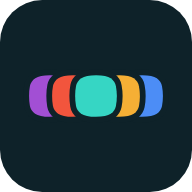
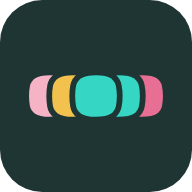
Add files via upload

Changed region(s): [[0.125, 0.375, 0.4062, 0.625], [0.5938, 0.375, 0.875, 0.625]]

diff --git a/tribbi/index.html b/tribbi/index.html
@@ -4,7 +4,7 @@
 <meta charset="utf-8">
 <base href="/tribbi/">
 <meta name="viewport" content="width=device-width, initial-scale=1, viewport-fit=cover">
-<meta name="theme-color" content="#127A6E">
+<meta name="theme-color" content="#FAFAF5">
 <title>Tribbi | Intercambios que arman tribu</title>
 <meta name="description" content="Tribbi organiza intercambios de regalos y libros en Guatemala: te inscribes, te toca alguien y PetMi entrega a domicilio.">
 <link rel="icon" href="favicon.ico" sizes="48x48">
@@ -16,20 +16,23 @@
 <link href="https://fonts.googleapis.com/css2?family=Fredoka:wght@500;600;700&family=Nunito:wght@400;600;700&display=swap" rel="stylesheet">
 <style>
 :root{
-  --bg:#F4F7F1; --ink:#1C2A33; --muted:#5B6B70; --card:#FFFFFF; --line:#DCE4D8;
-  --coral:#E2483D; --coral-dark:#A82A21; --teal:#127A6E; --teal-dark:#0B5249; --sun:#F3B431; --soft:#E8EFE4; --logo:#0F9E90;
+  --bg:#FAFAF5; --ink:#1F3534; --muted:#5E6F6D; --card:#FFFFFF; --line:#E6E8DF;
+  --coral:#C94375; --coral-dark:#9E2F59; --teal:#0B7A70; --teal-dark:#075A53; --sun:#F2C14E; --soft:#F2F3EA; --miss:#FCE4EC; --logo:#0F9E90;
+  --btn:#F2C14E; --btn-ink:#1F3534; --btn-dark:#C99A2E; --rosa:#E86F94; --rosa-dark:#B84A70;
   color-scheme:light; box-sizing:border-box;
   padding-top:env(safe-area-inset-top,0px); padding-bottom:env(safe-area-inset-bottom,0px);
 }
 @media (prefers-color-scheme:dark){
   :root:not([data-theme="light"]){
-    --bg:#111C20; --ink:#EEF3EC; --muted:#A3B4B2; --card:#182A2F; --line:#2A4046;
-    --coral:#F2665B; --coral-dark:#8E2219; --teal:#38B3A3; --teal-dark:#0E5C52; --sun:#FFC94D; --soft:#1F353A; --logo:#36D6C4; color-scheme:dark;
+    --bg:#142321; --ink:#F3F5EE; --muted:#A9B8B5; --card:#1C2E2C; --line:#2C4340;
+    --coral:#F49AB5; --coral-dark:#9E2F59; --teal:#5FD9CB; --teal-dark:#0B5249; --sun:#F2C14E; --soft:#223634; --miss:#4A2633; --logo:#36D6C4;
+    --btn:#F2C14E; --btn-ink:#1F3534; --btn-dark:#9C7A26; --rosa:#E86F94; --rosa-dark:#9E2F59; color-scheme:dark;
   }
 }
 :root[data-theme="dark"]{
-  --bg:#111C20; --ink:#EEF3EC; --muted:#A3B4B2; --card:#182A2F; --line:#2A4046;
-  --coral:#F2665B; --coral-dark:#8E2219; --teal:#38B3A3; --teal-dark:#0E5C52; --sun:#FFC94D; --soft:#1F353A; --logo:#36D6C4; color-scheme:dark;
+  --bg:#142321; --ink:#F3F5EE; --muted:#A9B8B5; --card:#1C2E2C; --line:#2C4340;
+    --coral:#F49AB5; --coral-dark:#9E2F59; --teal:#5FD9CB; --teal-dark:#0B5249; --sun:#F2C14E; --soft:#223634; --miss:#4A2633; --logo:#36D6C4;
+    --btn:#F2C14E; --btn-ink:#1F3534; --btn-dark:#9C7A26; --rosa:#E86F94; --rosa-dark:#9E2F59; color-scheme:dark;
 }
 html{scroll-padding-top:env(safe-area-inset-top,0px)}
 *,*::before,*::after{box-sizing:border-box}
@@ -56,8 +59,8 @@ button,input,select{font:inherit;color:inherit}
 @media (max-width:760px){.opts{grid-template-columns:1fr}}
 .opt{background:var(--card);border:2px solid var(--line);border-radius:26px;padding:24px 24px 26px;position:relative;overflow:hidden;display:flex;flex-direction:column}
 .opt .band{position:absolute;inset:0 0 auto;height:12px}
-.opt.navidad .band{background:repeating-linear-gradient(-45deg,var(--coral) 0 12px,transparent 12px 24px)}
-.opt.bookpal .band{background:repeating-linear-gradient(90deg,var(--teal) 0 18px,var(--sun) 18px 22px)}
+.opt.navidad .band{background:repeating-linear-gradient(-45deg,var(--rosa) 0 12px,transparent 12px 24px)}
+.opt.bookpal .band{background:repeating-linear-gradient(90deg,#36D6C4 0 18px,var(--sun) 18px 22px)}
 .opt .ico{font-size:2.4rem;line-height:1;margin-top:8px}
 .opt h3{font-size:1.6rem;margin:10px 0 2px;line-height:1.1}
 .opt.navidad h3{color:var(--coral)}
@@ -66,12 +69,12 @@ button,input,select{font:inherit;color:inherit}
 .opt p{margin:0 0 12px}
 .chips{display:flex;gap:8px;flex-wrap:wrap;margin:4px 0 18px}
 .chip{font-size:.9rem;padding:3px 12px;border-radius:999px;background:var(--soft);font-weight:600;white-space:nowrap}
-.chip.live{background:var(--teal);color:#fff}
-.chip.soon{background:var(--sun);color:#3A2A00}
+.chip.live{background:var(--teal);color:var(--bg)}
+.chip.soon{background:#FBEFC8;color:#3A2A00}
 .opt .push{margin-top:auto}
-.btn{display:inline-block;border:0;cursor:pointer;color:#fff;font-weight:600;font-size:1.12rem;padding:12px 26px;border-radius:999px;text-decoration:none;transition:transform .08s,box-shadow .08s}
-.btn.coral{background:var(--coral);box-shadow:0 5px 0 var(--coral-dark)}
-.btn.teal{background:var(--teal);box-shadow:0 5px 0 var(--teal-dark)}
+.btn{display:inline-block;border:0;cursor:pointer;color:var(--btn-ink);font-weight:600;font-size:1.12rem;padding:12px 26px;border-radius:999px;text-decoration:none;transition:transform .08s,box-shadow .08s}
+.btn.coral{background:var(--btn);box-shadow:0 5px 0 var(--btn-dark)}
+.btn.teal{background:var(--rosa);box-shadow:0 5px 0 var(--rosa-dark)}
 .btn:active{transform:translateY(4px);box-shadow:0 1px 0 transparent}
 .btn:disabled{opacity:.55;cursor:not-allowed}
 .wait{display:grid;grid-template-columns:1fr auto;gap:10px}
@@ -90,7 +93,7 @@ button,input,select{font:inherit;color:inherit}
 .steps{list-style:none;margin:0;padding:0;display:grid;grid-template-columns:repeat(3,1fr);gap:18px;counter-reset:s}
 @media (max-width:760px){.steps{grid-template-columns:1fr}}
 .steps li{counter-increment:s;position:relative;padding:0 0 0 58px}
-.steps li::before{content:counter(s);position:absolute;left:0;top:0;width:42px;height:42px;border-radius:50%;display:grid;place-items:center;background:var(--sun);color:#3A2A00;font-family:"Fredoka",sans-serif;font-weight:700;font-size:1.3rem}
+.steps li::before{content:counter(s);position:absolute;left:0;top:0;width:42px;height:42px;border-radius:50%;display:grid;place-items:center;background:#FCE4EC;color:#9E2F59;font-family:"Fredoka",sans-serif;font-weight:700;font-size:1.3rem}
 .steps b{display:block;font-family:"Fredoka",sans-serif;font-size:1.15rem;font-weight:600}
 .steps span{color:var(--muted)}
 
@@ -121,6 +124,7 @@ footer a{color:var(--teal);font-weight:700}
 .topnav .entrar{font-family:"Fredoka",sans-serif;font-weight:600;color:var(--teal);text-decoration:none;border:2px solid var(--line);background:var(--card);border-radius:999px;padding:6px 18px}
 .topnav .entrar:hover{border-color:var(--teal)}
 .hero{padding-top:12px!important}
+.opt p a{color:var(--teal);font-weight:700}
 </style>
 </head>
 <body>
@@ -128,7 +132,7 @@ footer a{color:var(--teal);font-weight:700}
   <nav class="topnav" aria-label="Cuenta"><a class="entrar" href="entrar.html">Entrar</a></nav>
   <header class="hero">
     <div>
-      <h1><span class="tb-logo anim" id="logo" role="img" aria-label="Tribbi" title="Tócame">Tribb<span class="i" aria-hidden="true">i<svg class="c" style="left:-0.165em;top:.141em;--dx:0.2em" viewBox="35 547 181 181"><path transform="translate(0 1275) scale(1 -1)" d="M125 547Q80 547 61.0 560.5Q42 574 38.5 595.0Q35 616 35 638Q35 661 39.0 681.5Q43 702 62.0 715.0Q81 728 126 728Q171 728 189.5 714.5Q208 701 212.0 680.0Q216 659 216 637Q216 615 212.0 594.0Q208 573 189.5 560.0Q171 547 125 547Z" fill="#A24FD4"/></svg><svg class="c" style="left:0.235em;top:.141em;--dx:-0.2em" viewBox="35 547 181 181"><path transform="translate(0 1275) scale(1 -1)" d="M125 547Q80 547 61.0 560.5Q42 574 38.5 595.0Q35 616 35 638Q35 661 39.0 681.5Q43 702 62.0 715.0Q81 728 126 728Q171 728 189.5 714.5Q208 701 212.0 680.0Q216 659 216 637Q216 615 212.0 594.0Q208 573 189.5 560.0Q171 547 125 547Z" fill="#4C8DF6"/></svg><svg class="c" style="left:-0.065em;top:.141em;--dx:0.1em" viewBox="35 547 181 181"><path transform="translate(0 1275) scale(1 -1)" d="M125 547Q80 547 61.0 560.5Q42 574 38.5 595.0Q35 616 35 638Q35 661 39.0 681.5Q43 702 62.0 715.0Q81 728 126 728Q171 728 189.5 714.5Q208 701 212.0 680.0Q216 659 216 637Q216 615 212.0 594.0Q208 573 189.5 560.0Q171 547 125 547Z" fill="#F2553D"/></svg><svg class="c" style="left:0.135em;top:.141em;--dx:-0.1em" viewBox="35 547 181 181"><path transform="translate(0 1275) scale(1 -1)" d="M125 547Q80 547 61.0 560.5Q42 574 38.5 595.0Q35 616 35 638Q35 661 39.0 681.5Q43 702 62.0 715.0Q81 728 126 728Q171 728 189.5 714.5Q208 701 212.0 680.0Q216 659 216 637Q216 615 212.0 594.0Q208 573 189.5 560.0Q171 547 125 547Z" fill="#F5AF35"/></svg><svg class="c p" style="left:0.035em;top:.141em" viewBox="35 547 181 181"><path transform="translate(0 1275) scale(1 -1)" d="M125 547Q80 547 61.0 560.5Q42 574 38.5 595.0Q35 616 35 638Q35 661 39.0 681.5Q43 702 62.0 715.0Q81 728 126 728Q171 728 189.5 714.5Q208 701 212.0 680.0Q216 659 216 637Q216 615 212.0 594.0Q208 573 189.5 560.0Q171 547 125 547Z"/></svg></span></span></h1>
+      <h1><span class="tb-logo anim" id="logo" role="img" aria-label="Tribbi" title="Tócame">Tribb<span class="i" aria-hidden="true">i<svg class="c" style="left:-0.165em;top:.141em;--dx:0.2em" viewBox="35 547 181 181"><path transform="translate(0 1275) scale(1 -1)" d="M125 547Q80 547 61.0 560.5Q42 574 38.5 595.0Q35 616 35 638Q35 661 39.0 681.5Q43 702 62.0 715.0Q81 728 126 728Q171 728 189.5 714.5Q208 701 212.0 680.0Q216 659 216 637Q216 615 212.0 594.0Q208 573 189.5 560.0Q171 547 125 547Z" fill="#F7B3C6"/></svg><svg class="c" style="left:0.235em;top:.141em;--dx:-0.2em" viewBox="35 547 181 181"><path transform="translate(0 1275) scale(1 -1)" d="M125 547Q80 547 61.0 560.5Q42 574 38.5 595.0Q35 616 35 638Q35 661 39.0 681.5Q43 702 62.0 715.0Q81 728 126 728Q171 728 189.5 714.5Q208 701 212.0 680.0Q216 659 216 637Q216 615 212.0 594.0Q208 573 189.5 560.0Q171 547 125 547Z" fill="#E86F94"/></svg><svg class="c" style="left:-0.065em;top:.141em;--dx:0.1em" viewBox="35 547 181 181"><path transform="translate(0 1275) scale(1 -1)" d="M125 547Q80 547 61.0 560.5Q42 574 38.5 595.0Q35 616 35 638Q35 661 39.0 681.5Q43 702 62.0 715.0Q81 728 126 728Q171 728 189.5 714.5Q208 701 212.0 680.0Q216 659 216 637Q216 615 212.0 594.0Q208 573 189.5 560.0Q171 547 125 547Z" fill="#F2C14E"/></svg><svg class="c" style="left:0.135em;top:.141em;--dx:-0.1em" viewBox="35 547 181 181"><path transform="translate(0 1275) scale(1 -1)" d="M125 547Q80 547 61.0 560.5Q42 574 38.5 595.0Q35 616 35 638Q35 661 39.0 681.5Q43 702 62.0 715.0Q81 728 126 728Q171 728 189.5 714.5Q208 701 212.0 680.0Q216 659 216 637Q216 615 212.0 594.0Q208 573 189.5 560.0Q171 547 125 547Z" fill="#36D6C4"/></svg><svg class="c p" style="left:0.035em;top:.141em" viewBox="35 547 181 181"><path transform="translate(0 1275) scale(1 -1)" d="M125 547Q80 547 61.0 560.5Q42 574 38.5 595.0Q35 616 35 638Q35 661 39.0 681.5Q43 702 62.0 715.0Q81 728 126 728Q171 728 189.5 714.5Q208 701 212.0 680.0Q216 659 216 637Q216 615 212.0 594.0Q208 573 189.5 560.0Q171 547 125 547Z"/></svg></span></span></h1>
       <p class="tag">Intercambios que arman tribu</p>
       <p class="lead">Te inscribes, te toca alguien al azar y le das algo pensado para esa persona. Nosotros organizamos el sorteo y las entregas; tú solo eliges el regalo.</p>
     </div>

diff --git a/tribbi/tribbi-comun.css b/tribbi/tribbi-comun.css
@@ -1,19 +1,22 @@
 /* TRIBBI · estilos compartidos de admin.html y bookpal.html */
 :root{
-  --bg:#F4F7F1; --ink:#1C2A33; --muted:#5B6B70; --card:#FFFFFF; --line:#DCE4D8;
-  --coral:#E2483D; --coral-dark:#A82A21; --teal:#127A6E; --teal-dark:#0B5249; --sun:#F3B431; --soft:#E8EFE4; --miss:#FBE3E0; --logo:#0F9E90;
+  --bg:#FAFAF5; --ink:#1F3534; --muted:#5E6F6D; --card:#FFFFFF; --line:#E6E8DF;
+  --coral:#C94375; --coral-dark:#9E2F59; --teal:#0B7A70; --teal-dark:#075A53; --sun:#F2C14E; --soft:#F2F3EA; --miss:#FCE4EC; --logo:#0F9E90;
+  --btn:#F2C14E; --btn-ink:#1F3534; --btn-dark:#C99A2E; --rosa:#E86F94; --rosa-dark:#B84A70;
   color-scheme:light; box-sizing:border-box;
   padding-top:env(safe-area-inset-top,0px); padding-bottom:env(safe-area-inset-bottom,0px);
 }
 @media (prefers-color-scheme:dark){
   :root:not([data-theme="light"]){
-    --bg:#111C20; --ink:#EEF3EC; --muted:#A3B4B2; --card:#182A2F; --line:#2A4046;
-    --coral:#F2665B; --coral-dark:#8E2219; --teal:#38B3A3; --teal-dark:#0E5C52; --sun:#FFC94D; --soft:#1F353A; --miss:#4A2622; --logo:#36D6C4; color-scheme:dark;
+    --bg:#142321; --ink:#F3F5EE; --muted:#A9B8B5; --card:#1C2E2C; --line:#2C4340;
+    --coral:#F49AB5; --coral-dark:#9E2F59; --teal:#5FD9CB; --teal-dark:#0B5249; --sun:#F2C14E; --soft:#223634; --miss:#4A2633; --logo:#36D6C4;
+    --btn:#F2C14E; --btn-ink:#1F3534; --btn-dark:#9C7A26; --rosa:#E86F94; --rosa-dark:#9E2F59; color-scheme:dark;
   }
 }
 :root[data-theme="dark"]{
-  --bg:#111C20; --ink:#EEF3EC; --muted:#A3B4B2; --card:#182A2F; --line:#2A4046;
-  --coral:#F2665B; --coral-dark:#8E2219; --teal:#38B3A3; --teal-dark:#0E5C52; --sun:#FFC94D; --soft:#1F353A; --miss:#4A2622; --logo:#36D6C4; color-scheme:dark;
+  --bg:#142321; --ink:#F3F5EE; --muted:#A9B8B5; --card:#1C2E2C; --line:#2C4340;
+    --coral:#F49AB5; --coral-dark:#9E2F59; --teal:#5FD9CB; --teal-dark:#0B5249; --sun:#F2C14E; --soft:#223634; --miss:#4A2633; --logo:#36D6C4;
+    --btn:#F2C14E; --btn-ink:#1F3534; --btn-dark:#9C7A26; --rosa:#E86F94; --rosa-dark:#9E2F59; color-scheme:dark;
 }
 html{scroll-padding-top:env(safe-area-inset-top,0px)}
 *,*::before,*::after{box-sizing:border-box}
@@ -33,9 +36,9 @@ a{color:var(--teal);font-weight:700}
 textarea.tb-field{resize:vertical;min-height:90px}
 .tb-code{text-align:center;font-size:1.6rem;letter-spacing:.4em}
 .tb-err{color:var(--coral);min-height:1.5em;margin:10px 0;font-weight:700}
-.tb-btn{display:inline-block;border:0;cursor:pointer;background:var(--teal);color:#fff;font-weight:600;font-size:1.08rem;padding:11px 24px;border-radius:999px;box-shadow:0 5px 0 var(--teal-dark);text-decoration:none;transition:transform .08s,box-shadow .08s}
-.tb-btn.coral{background:var(--coral);box-shadow:0 5px 0 var(--coral-dark)}
-.tb-btn.sm{font-size:.95rem;padding:8px 16px;box-shadow:0 3px 0 var(--teal-dark)}
+.tb-btn{display:inline-block;border:0;cursor:pointer;background:var(--btn);color:var(--btn-ink);font-weight:600;font-size:1.08rem;padding:11px 24px;border-radius:999px;box-shadow:0 5px 0 var(--btn-dark);text-decoration:none;transition:transform .08s,box-shadow .08s}
+.tb-btn.coral{background:var(--rosa);color:var(--btn-ink);box-shadow:0 5px 0 var(--rosa-dark)}
+.tb-btn.sm{font-size:.95rem;padding:8px 16px;box-shadow:0 3px 0 var(--btn-dark)}
 .tb-btn:active{transform:translateY(4px);box-shadow:0 1px 0 transparent}
 .tb-btn:disabled{opacity:.5;cursor:not-allowed}
 .tb-link{border:0;background:none;color:var(--teal);font-weight:700;cursor:pointer;padding:4px 6px;border-radius:8px}
@@ -46,8 +49,8 @@ textarea.tb-field{resize:vertical;min-height:90px}
 .tb-msg.bad{color:var(--coral);font-weight:700}
 .tb-msg.ok{color:var(--teal);font-weight:700}
 .tb-chip{display:inline-block;font-size:.88rem;padding:2px 11px;border-radius:999px;background:var(--soft);font-weight:700;white-space:nowrap}
-.tb-chip.ok{background:var(--teal);color:#fff}
-.tb-chip.warn{background:var(--sun);color:#3A2A00}
+.tb-chip.ok{background:var(--teal);color:var(--bg)}
+.tb-chip.warn{background:#FBEFC8;color:#3A2A00}
 .tb-chip.off{background:var(--miss)}
 
 .tb-scratch{position:relative;border-radius:16px;overflow:hidden;min-height:120px;display:grid;place-items:center;background:var(--soft)}
@@ -83,12 +86,14 @@ textarea.tb-field{resize:vertical;min-height:90px}
 .d-nieve{background-image:linear-gradient(135deg,#2F7FC1,#9BD3F5)}
 .d-estrella{background-image:linear-gradient(135deg,#F3B431,#FFE58A)}
 .d-noche{background-image:linear-gradient(135deg,#1C2A33,#4A6B7C)}
-.d-luces{background:#0F2A20}
+.d-luces{background:#F3F1E4}
+@media (prefers-color-scheme:dark){:root:not([data-theme="light"]) .d-luces{background:#0F2A20}}
+:root[data-theme="dark"] .d-luces{background:#0F2A20}
 .tb-luces{position:absolute;inset:0;display:flex;justify-content:space-around;align-items:flex-start;padding:0 5%}
-.tb-luces::before{content:"";position:absolute;left:-5%;right:-5%;top:-34%;height:60%;border-bottom:2px solid #A9C3B5;border-radius:0 0 50% 50%/0 0 100% 100%;opacity:.6}
+.tb-luces::before{content:"";position:absolute;left:-5%;right:-5%;top:-34%;height:60%;border-bottom:2px solid var(--muted);border-radius:0 0 50% 50%/0 0 100% 100%;opacity:.6}
 .tb-luces i{position:relative;width:12px;height:18px;margin-top:17%;border-radius:50% 50% 50% 50%/60% 60% 40% 40%;background:var(--c);box-shadow:0 0 12px var(--c);animation:tbtitila 2.4s infinite;animation-delay:var(--d)}
 .tb-luces i:nth-child(odd){margin-top:12%}
-.tb-luces i::before{content:"";position:absolute;top:-5px;left:3px;width:6px;height:6px;border-radius:2px;background:#A9C3B5}
+.tb-luces i::before{content:"";position:absolute;top:-5px;left:3px;width:6px;height:6px;border-radius:2px;background:var(--muted)}
 .tb-portada.thumb .tb-luces i,.tb-portada.mini .tb-luces i{width:6px;height:9px;box-shadow:0 0 6px var(--c)}
 .tb-portada.thumb .tb-luces i::before,.tb-portada.mini .tb-luces i::before{top:-3px;left:1px;width:4px;height:3px}
 @keyframes tbtitila{50%{opacity:.45;box-shadow:none}}
@@ -97,3 +102,24 @@ textarea.tb-field{resize:vertical;min-height:90px}
 @media (max-width:520px){.tb-disenos{grid-template-columns:repeat(3,1fr)}}
 .tb-disenos button{height:56px;border-radius:12px;border:3px solid transparent;cursor:pointer;padding:0;position:relative;overflow:hidden;font-size:1.4rem;display:grid;place-items:center}
 .tb-disenos button[aria-pressed="true"]{border-color:var(--teal);box-shadow:0 0 0 2px var(--bg) inset}
+
+/* Fechas con cuenta regresiva */
+.tb-fechas{display:grid;gap:8px;margin-top:12px}
+.tb-f{display:flex;gap:10px;align-items:center;border-radius:16px;padding:10px 14px;font-weight:700}
+.tb-f .e{font-size:1.5rem;flex:none;line-height:1}
+.tb-f small{display:block;font-weight:400;opacity:.85}
+.tb-f.unir{background:#FFF1C7;color:#3A2A00}
+.tb-f.urge{background:#FBE3E0;color:#7A1A12}
+.tb-f.info{background:var(--soft);color:var(--ink)}
+.tb-f.listo{background:var(--teal);color:var(--bg)}
+.tb-recordatorio{display:flex;gap:12px;align-items:center;justify-content:space-between;flex-wrap:wrap;background:#FFF1C7;color:#3A2A00;border-radius:18px;padding:12px 16px;margin-top:14px;font-weight:700}
+.tb-recordatorio small{display:block;font-weight:400}
+
+/* Ventanita para guardar en la pantalla de inicio */
+.tb-sheet{position:fixed;inset:0;z-index:60;background:rgba(0,0,0,.55);display:grid;place-items:center;padding:16px}
+.tb-sheet[hidden]{display:none}
+.tb-sheet-box{position:relative;background:var(--card);color:var(--ink);width:100%;max-width:400px;border-radius:24px;padding:28px 22px 20px;text-align:center;box-shadow:0 14px 44px rgba(0,0,0,.4)}
+.tb-sheet-box h2{margin:6px 0 8px;font-size:1.25rem;color:var(--teal)}
+.tb-sheet-box p{margin:0 0 10px;line-height:1.5}
+.tb-sheet-x{position:absolute;top:8px;right:10px;border:0;background:none;color:var(--muted);font-size:1.6rem;line-height:1;cursor:pointer;padding:6px 10px;border-radius:10px}
+@media (prefers-reduced-motion:no-preference){.tb-sheet-box{animation:tbpop .28s cubic-bezier(.2,.9,.3,1.2)}@keyframes tbpop{from{transform:scale(.9);opacity:0}to{transform:none;opacity:1}}}

diff --git a/tribbi/amigo-secreto.html b/tribbi/amigo-secreto.html
@@ -5,7 +5,7 @@
 <base href="/tribbi/">
 <meta name="viewport" content="width=device-width, initial-scale=1, viewport-fit=cover">
 <meta name="robots" content="noindex, nofollow">
-<meta name="theme-color" content="#E2483D">
+<meta name="theme-color" content="#FAFAF5">
 <title>Amigo secreto | Tribbi</title>
 <link rel="icon" href="favicon.ico" sizes="48x48">
 <link rel="icon" href="favicon.svg" type="image/svg+xml">
@@ -31,7 +31,7 @@ h1.big{font-size:clamp(2.2rem,9vw,3.4rem);line-height:1;margin:4px 0 10px;color:
 .confirma .quien{font-family:"Fredoka",sans-serif;font-size:2rem;font-weight:700;color:var(--teal);margin:2px 0 10px;overflow-wrap:anywhere}
 .tabs{display:flex;gap:8px;flex-wrap:wrap;margin-top:16px}
 .tabs button{border:2px solid var(--line);background:var(--card);border-radius:999px;padding:6px 14px;font:inherit;font-weight:700;cursor:pointer;color:var(--ink)}
-.tabs button[aria-pressed="true"]{border-color:var(--teal);background:var(--teal);color:#fff}
+.tabs button[aria-pressed="true"]{border-color:var(--teal);background:var(--teal);color:var(--bg)}
 .wishes{list-style:none;padding:0;margin:10px 0 0}
 .wishes li{display:flex;align-items:center;gap:10px;background:var(--bg);border:2px solid var(--line);border-radius:14px;padding:8px 8px 8px 14px;margin-bottom:8px;min-height:48px}
 .wishes li::before{content:"🎁";flex:none}
@@ -52,7 +52,7 @@ footer{max-width:640px;margin:20px auto 0;padding:18px 20px 36px;color:var(--mut
 </head>
 <body>
 <div class="wrap">
-  <div class="top"><a class="tb-logo" href="./" aria-label="Tribbi" style="font-size:28px">Tribb<span class="i" aria-hidden="true">i<svg class="c" style="left:-0.165em;top:.141em;--dx:0.2em" viewBox="35 547 181 181"><path transform="translate(0 1275) scale(1 -1)" d="M125 547Q80 547 61.0 560.5Q42 574 38.5 595.0Q35 616 35 638Q35 661 39.0 681.5Q43 702 62.0 715.0Q81 728 126 728Q171 728 189.5 714.5Q208 701 212.0 680.0Q216 659 216 637Q216 615 212.0 594.0Q208 573 189.5 560.0Q171 547 125 547Z" fill="#A24FD4"/></svg><svg class="c" style="left:0.235em;top:.141em;--dx:-0.2em" viewBox="35 547 181 181"><path transform="translate(0 1275) scale(1 -1)" d="M125 547Q80 547 61.0 560.5Q42 574 38.5 595.0Q35 616 35 638Q35 661 39.0 681.5Q43 702 62.0 715.0Q81 728 126 728Q171 728 189.5 714.5Q208 701 212.0 680.0Q216 659 216 637Q216 615 212.0 594.0Q208 573 189.5 560.0Q171 547 125 547Z" fill="#4C8DF6"/></svg><svg class="c" style="left:-0.065em;top:.141em;--dx:0.1em" viewBox="35 547 181 181"><path transform="translate(0 1275) scale(1 -1)" d="M125 547Q80 547 61.0 560.5Q42 574 38.5 595.0Q35 616 35 638Q35 661 39.0 681.5Q43 702 62.0 715.0Q81 728 126 728Q171 728 189.5 714.5Q208 701 212.0 680.0Q216 659 216 637Q216 615 212.0 594.0Q208 573 189.5 560.0Q171 547 125 547Z" fill="#F2553D"/></svg><svg class="c" style="left:0.135em;top:.141em;--dx:-0.1em" viewBox="35 547 181 181"><path transform="translate(0 1275) scale(1 -1)" d="M125 547Q80 547 61.0 560.5Q42 574 38.5 595.0Q35 616 35 638Q35 661 39.0 681.5Q43 702 62.0 715.0Q81 728 126 728Q171 728 189.5 714.5Q208 701 212.0 680.0Q216 659 216 637Q216 615 212.0 594.0Q208 573 189.5 560.0Q171 547 125 547Z" fill="#F5AF35"/></svg><svg class="c p" style="left:0.035em;top:.141em" viewBox="35 547 181 181"><path transform="translate(0 1275) scale(1 -1)" d="M125 547Q80 547 61.0 560.5Q42 574 38.5 595.0Q35 616 35 638Q35 661 39.0 681.5Q43 702 62.0 715.0Q81 728 126 728Q171 728 189.5 714.5Q208 701 212.0 680.0Q216 659 216 637Q216 615 212.0 594.0Q208 573 189.5 560.0Q171 547 125 547Z"/></svg></span></a><span><a class="tb-link" href="entrar.html" id="misLink">Mis intercambios</a><button class="tb-link" id="salirBtn" hidden>Salir</button></span></div>
+  <div class="top"><a class="tb-logo" href="./" aria-label="Tribbi" style="font-size:28px">Tribb<span class="i" aria-hidden="true">i<svg class="c" style="left:-0.165em;top:.141em;--dx:0.2em" viewBox="35 547 181 181"><path transform="translate(0 1275) scale(1 -1)" d="M125 547Q80 547 61.0 560.5Q42 574 38.5 595.0Q35 616 35 638Q35 661 39.0 681.5Q43 702 62.0 715.0Q81 728 126 728Q171 728 189.5 714.5Q208 701 212.0 680.0Q216 659 216 637Q216 615 212.0 594.0Q208 573 189.5 560.0Q171 547 125 547Z" fill="#F7B3C6"/></svg><svg class="c" style="left:0.235em;top:.141em;--dx:-0.2em" viewBox="35 547 181 181"><path transform="translate(0 1275) scale(1 -1)" d="M125 547Q80 547 61.0 560.5Q42 574 38.5 595.0Q35 616 35 638Q35 661 39.0 681.5Q43 702 62.0 715.0Q81 728 126 728Q171 728 189.5 714.5Q208 701 212.0 680.0Q216 659 216 637Q216 615 212.0 594.0Q208 573 189.5 560.0Q171 547 125 547Z" fill="#E86F94"/></svg><svg class="c" style="left:-0.065em;top:.141em;--dx:0.1em" viewBox="35 547 181 181"><path transform="translate(0 1275) scale(1 -1)" d="M125 547Q80 547 61.0 560.5Q42 574 38.5 595.0Q35 616 35 638Q35 661 39.0 681.5Q43 702 62.0 715.0Q81 728 126 728Q171 728 189.5 714.5Q208 701 212.0 680.0Q216 659 216 637Q216 615 212.0 594.0Q208 573 189.5 560.0Q171 547 125 547Z" fill="#F2C14E"/></svg><svg class="c" style="left:0.135em;top:.141em;--dx:-0.1em" viewBox="35 547 181 181"><path transform="translate(0 1275) scale(1 -1)" d="M125 547Q80 547 61.0 560.5Q42 574 38.5 595.0Q35 616 35 638Q35 661 39.0 681.5Q43 702 62.0 715.0Q81 728 126 728Q171 728 189.5 714.5Q208 701 212.0 680.0Q216 659 216 637Q216 615 212.0 594.0Q208 573 189.5 560.0Q171 547 125 547Z" fill="#36D6C4"/></svg><svg class="c p" style="left:0.035em;top:.141em" viewBox="35 547 181 181"><path transform="translate(0 1275) scale(1 -1)" d="M125 547Q80 547 61.0 560.5Q42 574 38.5 595.0Q35 616 35 638Q35 661 39.0 681.5Q43 702 62.0 715.0Q81 728 126 728Q171 728 189.5 714.5Q208 701 212.0 680.0Q216 659 216 637Q216 615 212.0 594.0Q208 573 189.5 560.0Q171 547 125 547Z"/></svg></span></a><span><a class="tb-link" href="entrar.html" id="misLink">Mis intercambios</a><button class="tb-link" id="salirBtn" hidden>Salir</button></span></div>
   <div id="portada" style="margin-top:4px"></div>
   <p class="org" id="org" style="margin-top:12px"></p>
   <h1 class="big" id="tit">Amigo secreto</h1>

diff --git a/tribbi/bookpal.html b/tribbi/bookpal.html
@@ -4,7 +4,7 @@
 <meta charset="utf-8">
 <base href="/tribbi/">
 <meta name="viewport" content="width=device-width, initial-scale=1, viewport-fit=cover">
-<meta name="theme-color" content="#127A6E">
+<meta name="theme-color" content="#FAFAF5">
 <title>BookPal | Intercambio de libros de Tribbi</title>
 <meta name="description" content="BookPal: envía un libro que ya leíste a alguien que le va a gustar y recibe uno de otra persona. Con Tribbi y PetMi.">
 <link rel="icon" href="favicon.ico" sizes="48x48">
@@ -53,7 +53,7 @@
 .card p{margin:0 0 10px}
 .step{display:flex;gap:12px;align-items:baseline}
 .step .n{flex:none;width:30px;height:30px;border-radius:50%;display:grid;place-items:center;background:var(--sun);color:#3A2A00;font-family:"Fredoka",sans-serif;font-weight:700}
-.step.ok .n{background:var(--teal);color:#fff}
+.step.ok .n{background:var(--teal);color:var(--bg)}
 .picks{display:flex;flex-wrap:wrap;gap:8px;margin:8px 0 4px}
 .picks label{display:inline-flex;align-items:center;gap:6px;border:2px solid var(--line);border-radius:999px;padding:5px 12px;cursor:pointer;font-weight:600;background:var(--bg)}
 .picks input{accent-color:var(--teal)}
@@ -79,7 +79,7 @@ footer{max-width:1040px;margin:30px auto 0;padding:18px 20px 36px;color:var(--mu
 </head>
 <body>
 <div class="wrap">
-  <div class="top"><a class="tb-logo" href="./" aria-label="Tribbi, inicio" style="font-size:34px">Tribb<span class="i" aria-hidden="true">i<svg class="c" style="left:-0.165em;top:.141em;--dx:0.2em" viewBox="35 547 181 181"><path transform="translate(0 1275) scale(1 -1)" d="M125 547Q80 547 61.0 560.5Q42 574 38.5 595.0Q35 616 35 638Q35 661 39.0 681.5Q43 702 62.0 715.0Q81 728 126 728Q171 728 189.5 714.5Q208 701 212.0 680.0Q216 659 216 637Q216 615 212.0 594.0Q208 573 189.5 560.0Q171 547 125 547Z" fill="#A24FD4"/></svg><svg class="c" style="left:0.235em;top:.141em;--dx:-0.2em" viewBox="35 547 181 181"><path transform="translate(0 1275) scale(1 -1)" d="M125 547Q80 547 61.0 560.5Q42 574 38.5 595.0Q35 616 35 638Q35 661 39.0 681.5Q43 702 62.0 715.0Q81 728 126 728Q171 728 189.5 714.5Q208 701 212.0 680.0Q216 659 216 637Q216 615 212.0 594.0Q208 573 189.5 560.0Q171 547 125 547Z" fill="#4C8DF6"/></svg><svg class="c" style="left:-0.065em;top:.141em;--dx:0.1em" viewBox="35 547 181 181"><path transform="translate(0 1275) scale(1 -1)" d="M125 547Q80 547 61.0 560.5Q42 574 38.5 595.0Q35 616 35 638Q35 661 39.0 681.5Q43 702 62.0 715.0Q81 728 126 728Q171 728 189.5 714.5Q208 701 212.0 680.0Q216 659 216 637Q216 615 212.0 594.0Q208 573 189.5 560.0Q171 547 125 547Z" fill="#F2553D"/></svg><svg class="c" style="left:0.135em;top:.141em;--dx:-0.1em" viewBox="35 547 181 181"><path transform="translate(0 1275) scale(1 -1)" d="M125 547Q80 547 61.0 560.5Q42 574 38.5 595.0Q35 616 35 638Q35 661 39.0 681.5Q43 702 62.0 715.0Q81 728 126 728Q171 728 189.5 714.5Q208 701 212.0 680.0Q216 659 216 637Q216 615 212.0 594.0Q208 573 189.5 560.0Q171 547 125 547Z" fill="#F5AF35"/></svg><svg class="c p" style="left:0.035em;top:.141em" viewBox="35 547 181 181"><path transform="translate(0 1275) scale(1 -1)" d="M125 547Q80 547 61.0 560.5Q42 574 38.5 595.0Q35 616 35 638Q35 661 39.0 681.5Q43 702 62.0 715.0Q81 728 126 728Q171 728 189.5 714.5Q208 701 212.0 680.0Q216 659 216 637Q216 615 212.0 594.0Q208 573 189.5 560.0Q171 547 125 547Z"/></svg></span></a><span><button class="tb-link" id="salirBtn" hidden>Salir</button></span></div>
+  <div class="top"><a class="tb-logo" href="./" aria-label="Tribbi, inicio" style="font-size:34px">Tribb<span class="i" aria-hidden="true">i<svg class="c" style="left:-0.165em;top:.141em;--dx:0.2em" viewBox="35 547 181 181"><path transform="translate(0 1275) scale(1 -1)" d="M125 547Q80 547 61.0 560.5Q42 574 38.5 595.0Q35 616 35 638Q35 661 39.0 681.5Q43 702 62.0 715.0Q81 728 126 728Q171 728 189.5 714.5Q208 701 212.0 680.0Q216 659 216 637Q216 615 212.0 594.0Q208 573 189.5 560.0Q171 547 125 547Z" fill="#F7B3C6"/></svg><svg class="c" style="left:0.235em;top:.141em;--dx:-0.2em" viewBox="35 547 181 181"><path transform="translate(0 1275) scale(1 -1)" d="M125 547Q80 547 61.0 560.5Q42 574 38.5 595.0Q35 616 35 638Q35 661 39.0 681.5Q43 702 62.0 715.0Q81 728 126 728Q171 728 189.5 714.5Q208 701 212.0 680.0Q216 659 216 637Q216 615 212.0 594.0Q208 573 189.5 560.0Q171 547 125 547Z" fill="#E86F94"/></svg><svg class="c" style="left:-0.065em;top:.141em;--dx:0.1em" viewBox="35 547 181 181"><path transform="translate(0 1275) scale(1 -1)" d="M125 547Q80 547 61.0 560.5Q42 574 38.5 595.0Q35 616 35 638Q35 661 39.0 681.5Q43 702 62.0 715.0Q81 728 126 728Q171 728 189.5 714.5Q208 701 212.0 680.0Q216 659 216 637Q216 615 212.0 594.0Q208 573 189.5 560.0Q171 547 125 547Z" fill="#F2C14E"/></svg><svg class="c" style="left:0.135em;top:.141em;--dx:-0.1em" viewBox="35 547 181 181"><path transform="translate(0 1275) scale(1 -1)" d="M125 547Q80 547 61.0 560.5Q42 574 38.5 595.0Q35 616 35 638Q35 661 39.0 681.5Q43 702 62.0 715.0Q81 728 126 728Q171 728 189.5 714.5Q208 701 212.0 680.0Q216 659 216 637Q216 615 212.0 594.0Q208 573 189.5 560.0Q171 547 125 547Z" fill="#36D6C4"/></svg><svg class="c p" style="left:0.035em;top:.141em" viewBox="35 547 181 181"><path transform="translate(0 1275) scale(1 -1)" d="M125 547Q80 547 61.0 560.5Q42 574 38.5 595.0Q35 616 35 638Q35 661 39.0 681.5Q43 702 62.0 715.0Q81 728 126 728Q171 728 189.5 714.5Q208 701 212.0 680.0Q216 659 216 637Q216 615 212.0 594.0Q208 573 189.5 560.0Q171 547 125 547Z"/></svg></span></a><span><button class="tb-link" id="salirBtn" hidden>Salir</button></span></div>
   <header class="hero">
     <h1>BookPal</h1>
     <p>Envías un libro que ya leíste a alguien que le va a gustar, y recibes uno de otra persona. Sin fechas: entras cuando quieras. También hay libros para niños.</p>

diff --git a/tribbi/organizar.html b/tribbi/organizar.html
@@ -5,7 +5,7 @@
 <base href="/tribbi/">
 <meta name="viewport" content="width=device-width, initial-scale=1, viewport-fit=cover">
 <meta name="robots" content="noindex, nofollow">
-<meta name="theme-color" content="#127A6E">
+<meta name="theme-color" content="#FAFAF5">
 <title>Organiza tu amigo secreto | Tribbi</title>
 <link rel="icon" href="favicon.ico" sizes="48x48">
 <link rel="icon" href="favicon.svg" type="image/svg+xml">
@@ -63,7 +63,7 @@ label.f small{display:block;font-weight:400;color:var(--muted);font-size:.86rem}
 </head>
 <body>
 <div class="wrap">
-  <div class="top"><a class="tb-logo" href="./" aria-label="Tribbi, inicio" style="font-size:34px">Tribb<span class="i" aria-hidden="true">i<svg class="c" style="left:-0.165em;top:.141em;--dx:0.2em" viewBox="35 547 181 181"><path transform="translate(0 1275) scale(1 -1)" d="M125 547Q80 547 61.0 560.5Q42 574 38.5 595.0Q35 616 35 638Q35 661 39.0 681.5Q43 702 62.0 715.0Q81 728 126 728Q171 728 189.5 714.5Q208 701 212.0 680.0Q216 659 216 637Q216 615 212.0 594.0Q208 573 189.5 560.0Q171 547 125 547Z" fill="#A24FD4"/></svg><svg class="c" style="left:0.235em;top:.141em;--dx:-0.2em" viewBox="35 547 181 181"><path transform="translate(0 1275) scale(1 -1)" d="M125 547Q80 547 61.0 560.5Q42 574 38.5 595.0Q35 616 35 638Q35 661 39.0 681.5Q43 702 62.0 715.0Q81 728 126 728Q171 728 189.5 714.5Q208 701 212.0 680.0Q216 659 216 637Q216 615 212.0 594.0Q208 573 189.5 560.0Q171 547 125 547Z" fill="#4C8DF6"/></svg><svg class="c" style="left:-0.065em;top:.141em;--dx:0.1em" viewBox="35 547 181 181"><path transform="translate(0 1275) scale(1 -1)" d="M125 547Q80 547 61.0 560.5Q42 574 38.5 595.0Q35 616 35 638Q35 661 39.0 681.5Q43 702 62.0 715.0Q81 728 126 728Q171 728 189.5 714.5Q208 701 212.0 680.0Q216 659 216 637Q216 615 212.0 594.0Q208 573 189.5 560.0Q171 547 125 547Z" fill="#F2553D"/></svg><svg class="c" style="left:0.135em;top:.141em;--dx:-0.1em" viewBox="35 547 181 181"><path transform="translate(0 1275) scale(1 -1)" d="M125 547Q80 547 61.0 560.5Q42 574 38.5 595.0Q35 616 35 638Q35 661 39.0 681.5Q43 702 62.0 715.0Q81 728 126 728Q171 728 189.5 714.5Q208 701 212.0 680.0Q216 659 216 637Q216 615 212.0 594.0Q208 573 189.5 560.0Q171 547 125 547Z" fill="#F5AF35"/></svg><svg class="c p" style="left:0.035em;top:.141em" viewBox="35 547 181 181"><path transform="translate(0 1275) scale(1 -1)" d="M125 547Q80 547 61.0 560.5Q42 574 38.5 595.0Q35 616 35 638Q35 661 39.0 681.5Q43 702 62.0 715.0Q81 728 126 728Q171 728 189.5 714.5Q208 701 212.0 680.0Q216 659 216 637Q216 615 212.0 594.0Q208 573 189.5 560.0Q171 547 125 547Z"/></svg></span></a><span><button class="tb-link" id="inicioBtn" hidden>Mis intercambios</button><button class="tb-link" id="salirBtn" hidden>Salir</button></span></div>
+  <div class="top"><a class="tb-logo" href="./" aria-label="Tribbi, inicio" style="font-size:34px">Tribb<span class="i" aria-hidden="true">i<svg class="c" style="left:-0.165em;top:.141em;--dx:0.2em" viewBox="35 547 181 181"><path transform="translate(0 1275) scale(1 -1)" d="M125 547Q80 547 61.0 560.5Q42 574 38.5 595.0Q35 616 35 638Q35 661 39.0 681.5Q43 702 62.0 715.0Q81 728 126 728Q171 728 189.5 714.5Q208 701 212.0 680.0Q216 659 216 637Q216 615 212.0 594.0Q208 573 189.5 560.0Q171 547 125 547Z" fill="#F7B3C6"/></svg><svg class="c" style="left:0.235em;top:.141em;--dx:-0.2em" viewBox="35 547 181 181"><path transform="translate(0 1275) scale(1 -1)" d="M125 547Q80 547 61.0 560.5Q42 574 38.5 595.0Q35 616 35 638Q35 661 39.0 681.5Q43 702 62.0 715.0Q81 728 126 728Q171 728 189.5 714.5Q208 701 212.0 680.0Q216 659 216 637Q216 615 212.0 594.0Q208 573 189.5 560.0Q171 547 125 547Z" fill="#E86F94"/></svg><svg class="c" style="left:-0.065em;top:.141em;--dx:0.1em" viewBox="35 547 181 181"><path transform="translate(0 1275) scale(1 -1)" d="M125 547Q80 547 61.0 560.5Q42 574 38.5 595.0Q35 616 35 638Q35 661 39.0 681.5Q43 702 62.0 715.0Q81 728 126 728Q171 728 189.5 714.5Q208 701 212.0 680.0Q216 659 216 637Q216 615 212.0 594.0Q208 573 189.5 560.0Q171 547 125 547Z" fill="#F2C14E"/></svg><svg class="c" style="left:0.135em;top:.141em;--dx:-0.1em" viewBox="35 547 181 181"><path transform="translate(0 1275) scale(1 -1)" d="M125 547Q80 547 61.0 560.5Q42 574 38.5 595.0Q35 616 35 638Q35 661 39.0 681.5Q43 702 62.0 715.0Q81 728 126 728Q171 728 189.5 714.5Q208 701 212.0 680.0Q216 659 216 637Q216 615 212.0 594.0Q208 573 189.5 560.0Q171 547 125 547Z" fill="#36D6C4"/></svg><svg class="c p" style="left:0.035em;top:.141em" viewBox="35 547 181 181"><path transform="translate(0 1275) scale(1 -1)" d="M125 547Q80 547 61.0 560.5Q42 574 38.5 595.0Q35 616 35 638Q35 661 39.0 681.5Q43 702 62.0 715.0Q81 728 126 728Q171 728 189.5 714.5Q208 701 212.0 680.0Q216 659 216 637Q216 615 212.0 594.0Q208 573 189.5 560.0Q171 547 125 547Z"/></svg></span></a><span><button class="tb-link" id="inicioBtn" hidden>Mis intercambios</button><button class="tb-link" id="salirBtn" hidden>Salir</button></span></div>
 
   <div id="vLogin" hidden>
     <h1 class="big">Organiza tu amigo secreto</h1>

diff --git a/tribbi/preferencias.html b/tribbi/preferencias.html
@@ -5,7 +5,7 @@
 <base href="/tribbi/">
 <meta name="viewport" content="width=device-width, initial-scale=1, viewport-fit=cover">
 <meta name="robots" content="noindex, nofollow">
-<meta name="theme-color" content="#127A6E">
+<meta name="theme-color" content="#FAFAF5">
 <title>Tus preferencias | Tribbi</title>
 <link rel="icon" href="favicon.ico" sizes="48x48">
 <link rel="icon" href="favicon.svg" type="image/svg+xml">
@@ -25,7 +25,7 @@
 </head>
 <body>
 <div class="wrap">
-  <div class="top"><a class="tb-logo" href="./" aria-label="Tribbi, inicio" style="font-size:34px">Tribb<span class="i" aria-hidden="true">i<svg class="c" style="left:-0.165em;top:.141em;--dx:0.2em" viewBox="35 547 181 181"><path transform="translate(0 1275) scale(1 -1)" d="M125 547Q80 547 61.0 560.5Q42 574 38.5 595.0Q35 616 35 638Q35 661 39.0 681.5Q43 702 62.0 715.0Q81 728 126 728Q171 728 189.5 714.5Q208 701 212.0 680.0Q216 659 216 637Q216 615 212.0 594.0Q208 573 189.5 560.0Q171 547 125 547Z" fill="#A24FD4"/></svg><svg class="c" style="left:0.235em;top:.141em;--dx:-0.2em" viewBox="35 547 181 181"><path transform="translate(0 1275) scale(1 -1)" d="M125 547Q80 547 61.0 560.5Q42 574 38.5 595.0Q35 616 35 638Q35 661 39.0 681.5Q43 702 62.0 715.0Q81 728 126 728Q171 728 189.5 714.5Q208 701 212.0 680.0Q216 659 216 637Q216 615 212.0 594.0Q208 573 189.5 560.0Q171 547 125 547Z" fill="#4C8DF6"/></svg><svg class="c" style="left:-0.065em;top:.141em;--dx:0.1em" viewBox="35 547 181 181"><path transform="translate(0 1275) scale(1 -1)" d="M125 547Q80 547 61.0 560.5Q42 574 38.5 595.0Q35 616 35 638Q35 661 39.0 681.5Q43 702 62.0 715.0Q81 728 126 728Q171 728 189.5 714.5Q208 701 212.0 680.0Q216 659 216 637Q216 615 212.0 594.0Q208 573 189.5 560.0Q171 547 125 547Z" fill="#F2553D"/></svg><svg class="c" style="left:0.135em;top:.141em;--dx:-0.1em" viewBox="35 547 181 181"><path transform="translate(0 1275) scale(1 -1)" d="M125 547Q80 547 61.0 560.5Q42 574 38.5 595.0Q35 616 35 638Q35 661 39.0 681.5Q43 702 62.0 715.0Q81 728 126 728Q171 728 189.5 714.5Q208 701 212.0 680.0Q216 659 216 637Q216 615 212.0 594.0Q208 573 189.5 560.0Q171 547 125 547Z" fill="#F5AF35"/></svg><svg class="c p" style="left:.035em;top:.141em" viewBox="35 547 181 181"><path transform="translate(0 1275) scale(1 -1)" d="M125 547Q80 547 61.0 560.5Q42 574 38.5 595.0Q35 616 35 638Q35 661 39.0 681.5Q43 702 62.0 715.0Q81 728 126 728Q171 728 189.5 714.5Q208 701 212.0 680.0Q216 659 216 637Q216 615 212.0 594.0Q208 573 189.5 560.0Q171 547 125 547Z"/></svg></span></a></div>
+  <div class="top"><a class="tb-logo" href="./" aria-label="Tribbi, inicio" style="font-size:34px">Tribb<span class="i" aria-hidden="true">i<svg class="c" style="left:-0.165em;top:.141em;--dx:0.2em" viewBox="35 547 181 181"><path transform="translate(0 1275) scale(1 -1)" d="M125 547Q80 547 61.0 560.5Q42 574 38.5 595.0Q35 616 35 638Q35 661 39.0 681.5Q43 702 62.0 715.0Q81 728 126 728Q171 728 189.5 714.5Q208 701 212.0 680.0Q216 659 216 637Q216 615 212.0 594.0Q208 573 189.5 560.0Q171 547 125 547Z" fill="#F7B3C6"/></svg><svg class="c" style="left:0.235em;top:.141em;--dx:-0.2em" viewBox="35 547 181 181"><path transform="translate(0 1275) scale(1 -1)" d="M125 547Q80 547 61.0 560.5Q42 574 38.5 595.0Q35 616 35 638Q35 661 39.0 681.5Q43 702 62.0 715.0Q81 728 126 728Q171 728 189.5 714.5Q208 701 212.0 680.0Q216 659 216 637Q216 615 212.0 594.0Q208 573 189.5 560.0Q171 547 125 547Z" fill="#E86F94"/></svg><svg class="c" style="left:-0.065em;top:.141em;--dx:0.1em" viewBox="35 547 181 181"><path transform="translate(0 1275) scale(1 -1)" d="M125 547Q80 547 61.0 560.5Q42 574 38.5 595.0Q35 616 35 638Q35 661 39.0 681.5Q43 702 62.0 715.0Q81 728 126 728Q171 728 189.5 714.5Q208 701 212.0 680.0Q216 659 216 637Q216 615 212.0 594.0Q208 573 189.5 560.0Q171 547 125 547Z" fill="#F2C14E"/></svg><svg class="c" style="left:0.135em;top:.141em;--dx:-0.1em" viewBox="35 547 181 181"><path transform="translate(0 1275) scale(1 -1)" d="M125 547Q80 547 61.0 560.5Q42 574 38.5 595.0Q35 616 35 638Q35 661 39.0 681.5Q43 702 62.0 715.0Q81 728 126 728Q171 728 189.5 714.5Q208 701 212.0 680.0Q216 659 216 637Q216 615 212.0 594.0Q208 573 189.5 560.0Q171 547 125 547Z" fill="#36D6C4"/></svg><svg class="c p" style="left:.035em;top:.141em" viewBox="35 547 181 181"><path transform="translate(0 1275) scale(1 -1)" d="M125 547Q80 547 61.0 560.5Q42 574 38.5 595.0Q35 616 35 638Q35 661 39.0 681.5Q43 702 62.0 715.0Q81 728 126 728Q171 728 189.5 714.5Q208 701 212.0 680.0Q216 659 216 637Q216 615 212.0 594.0Q208 573 189.5 560.0Q171 547 125 547Z"/></svg></span></a></div>
   <div class="res" id="res" role="status" aria-live="polite"><p>Guardando tu respuesta…</p></div>
 </div>
 <script src="tribbi-comun.js"></script>

diff --git a/tribbi/entrar.html b/tribbi/entrar.html
@@ -5,7 +5,7 @@
 <base href="/tribbi/">
 <meta name="viewport" content="width=device-width, initial-scale=1, viewport-fit=cover">
 <meta name="robots" content="noindex, nofollow">
-<meta name="theme-color" content="#127A6E">
+<meta name="theme-color" content="#FAFAF5">
 <title>Entrar | Tribbi</title>
 <link rel="icon" href="favicon.ico" sizes="48x48">
 <link rel="icon" href="favicon.svg" type="image/svg+xml">
@@ -31,7 +31,7 @@ h2.grp{font-size:1.25rem;margin:26px 0 8px}
 </head>
 <body>
 <div class="wrap">
-  <div class="top"><a class="tb-logo" href="./" aria-label="Tribbi, inicio" style="font-size:34px">Tribb<span class="i" aria-hidden="true">i<svg class="c" style="left:-0.165em;top:.141em;--dx:0.2em" viewBox="35 547 181 181"><path transform="translate(0 1275) scale(1 -1)" d="M125 547Q80 547 61.0 560.5Q42 574 38.5 595.0Q35 616 35 638Q35 661 39.0 681.5Q43 702 62.0 715.0Q81 728 126 728Q171 728 189.5 714.5Q208 701 212.0 680.0Q216 659 216 637Q216 615 212.0 594.0Q208 573 189.5 560.0Q171 547 125 547Z" fill="#A24FD4"/></svg><svg class="c" style="left:0.235em;top:.141em;--dx:-0.2em" viewBox="35 547 181 181"><path transform="translate(0 1275) scale(1 -1)" d="M125 547Q80 547 61.0 560.5Q42 574 38.5 595.0Q35 616 35 638Q35 661 39.0 681.5Q43 702 62.0 715.0Q81 728 126 728Q171 728 189.5 714.5Q208 701 212.0 680.0Q216 659 216 637Q216 615 212.0 594.0Q208 573 189.5 560.0Q171 547 125 547Z" fill="#4C8DF6"/></svg><svg class="c" style="left:-0.065em;top:.141em;--dx:0.1em" viewBox="35 547 181 181"><path transform="translate(0 1275) scale(1 -1)" d="M125 547Q80 547 61.0 560.5Q42 574 38.5 595.0Q35 616 35 638Q35 661 39.0 681.5Q43 702 62.0 715.0Q81 728 126 728Q171 728 189.5 714.5Q208 701 212.0 680.0Q216 659 216 637Q216 615 212.0 594.0Q208 573 189.5 560.0Q171 547 125 547Z" fill="#F2553D"/></svg><svg class="c" style="left:0.135em;top:.141em;--dx:-0.1em" viewBox="35 547 181 181"><path transform="translate(0 1275) scale(1 -1)" d="M125 547Q80 547 61.0 560.5Q42 574 38.5 595.0Q35 616 35 638Q35 661 39.0 681.5Q43 702 62.0 715.0Q81 728 126 728Q171 728 189.5 714.5Q208 701 212.0 680.0Q216 659 216 637Q216 615 212.0 594.0Q208 573 189.5 560.0Q171 547 125 547Z" fill="#F5AF35"/></svg><svg class="c p" style="left:.035em;top:.141em" viewBox="35 547 181 181"><path transform="translate(0 1275) scale(1 -1)" d="M125 547Q80 547 61.0 560.5Q42 574 38.5 595.0Q35 616 35 638Q35 661 39.0 681.5Q43 702 62.0 715.0Q81 728 126 728Q171 728 189.5 714.5Q208 701 212.0 680.0Q216 659 216 637Q216 615 212.0 594.0Q208 573 189.5 560.0Q171 547 125 547Z"/></svg></span></a>
+  <div class="top"><a class="tb-logo" href="./" aria-label="Tribbi, inicio" style="font-size:34px">Tribb<span class="i" aria-hidden="true">i<svg class="c" style="left:-0.165em;top:.141em;--dx:0.2em" viewBox="35 547 181 181"><path transform="translate(0 1275) scale(1 -1)" d="M125 547Q80 547 61.0 560.5Q42 574 38.5 595.0Q35 616 35 638Q35 661 39.0 681.5Q43 702 62.0 715.0Q81 728 126 728Q171 728 189.5 714.5Q208 701 212.0 680.0Q216 659 216 637Q216 615 212.0 594.0Q208 573 189.5 560.0Q171 547 125 547Z" fill="#F7B3C6"/></svg><svg class="c" style="left:0.235em;top:.141em;--dx:-0.2em" viewBox="35 547 181 181"><path transform="translate(0 1275) scale(1 -1)" d="M125 547Q80 547 61.0 560.5Q42 574 38.5 595.0Q35 616 35 638Q35 661 39.0 681.5Q43 702 62.0 715.0Q81 728 126 728Q171 728 189.5 714.5Q208 701 212.0 680.0Q216 659 216 637Q216 615 212.0 594.0Q208 573 189.5 560.0Q171 547 125 547Z" fill="#E86F94"/></svg><svg class="c" style="left:-0.065em;top:.141em;--dx:0.1em" viewBox="35 547 181 181"><path transform="translate(0 1275) scale(1 -1)" d="M125 547Q80 547 61.0 560.5Q42 574 38.5 595.0Q35 616 35 638Q35 661 39.0 681.5Q43 702 62.0 715.0Q81 728 126 728Q171 728 189.5 714.5Q208 701 212.0 680.0Q216 659 216 637Q216 615 212.0 594.0Q208 573 189.5 560.0Q171 547 125 547Z" fill="#F2C14E"/></svg><svg class="c" style="left:0.135em;top:.141em;--dx:-0.1em" viewBox="35 547 181 181"><path transform="translate(0 1275) scale(1 -1)" d="M125 547Q80 547 61.0 560.5Q42 574 38.5 595.0Q35 616 35 638Q35 661 39.0 681.5Q43 702 62.0 715.0Q81 728 126 728Q171 728 189.5 714.5Q208 701 212.0 680.0Q216 659 216 637Q216 615 212.0 594.0Q208 573 189.5 560.0Q171 547 125 547Z" fill="#36D6C4"/></svg><svg class="c p" style="left:.035em;top:.141em" viewBox="35 547 181 181"><path transform="translate(0 1275) scale(1 -1)" d="M125 547Q80 547 61.0 560.5Q42 574 38.5 595.0Q35 616 35 638Q35 661 39.0 681.5Q43 702 62.0 715.0Q81 728 126 728Q171 728 189.5 714.5Q208 701 212.0 680.0Q216 659 216 637Q216 615 212.0 594.0Q208 573 189.5 560.0Q171 547 125 547Z"/></svg></span></a>
   <button class="tb-link" id="salirBtn" hidden>Salir</button></div>
 
   <div id="vLogin" hidden></div>

diff --git a/tribbi/tribbi-comun.js b/tribbi/tribbi-comun.js
@@ -309,7 +309,7 @@ const PASOS={ios:'Toca el botón <b>Compartir</b> (el cuadrito con la flecha ⬆
 function prepararAcceso(nombre){
   const base=new URL('.',document.baseURI).href;
   const m={name:nombre||'Tribbi',short_name:(nombre||'Tribbi').slice(0,24),start_url:location.href.split('#')[0],scope:base,display:'standalone',
-    background_color:'#0E2229',theme_color:'#0E2229',icons:[{src:base+'icon-192.png',sizes:'192x192',type:'image/png'},{src:base+'icon-512.png',sizes:'512x512',type:'image/png'}]};
+    background_color:'#FAFAF5',theme_color:'#FAFAF5',icons:[{src:base+'icon-192.png',sizes:'192x192',type:'image/png'},{src:base+'icon-512.png',sizes:'512x512',type:'image/png'}]};
   let l=document.querySelector('link[rel="manifest"]');if(!l){l=document.createElement('link');l.rel='manifest';document.head.appendChild(l)}
   l.href=URL.createObjectURL(new Blob([JSON.stringify(m)],{type:'application/manifest+json'}));
   let t=document.querySelector('meta[name="apple-mobile-web-app-title"]');if(!t){t=document.createElement('meta');t.name='apple-mobile-web-app-title';document.head.appendChild(t)}

diff --git a/tribbi/admin.html b/tribbi/admin.html
@@ -5,7 +5,7 @@
 <base href="/tribbi/">
 <meta name="viewport" content="width=device-width, initial-scale=1, viewport-fit=cover">
 <meta name="robots" content="noindex, nofollow">
-<meta name="theme-color" content="#1C2A33">
+<meta name="theme-color" content="#FAFAF5">
 <title>Panel de Tribbi</title>
 <link rel="icon" href="favicon.ico" sizes="48x48">
 <link rel="icon" href="favicon.svg" type="image/svg+xml">
